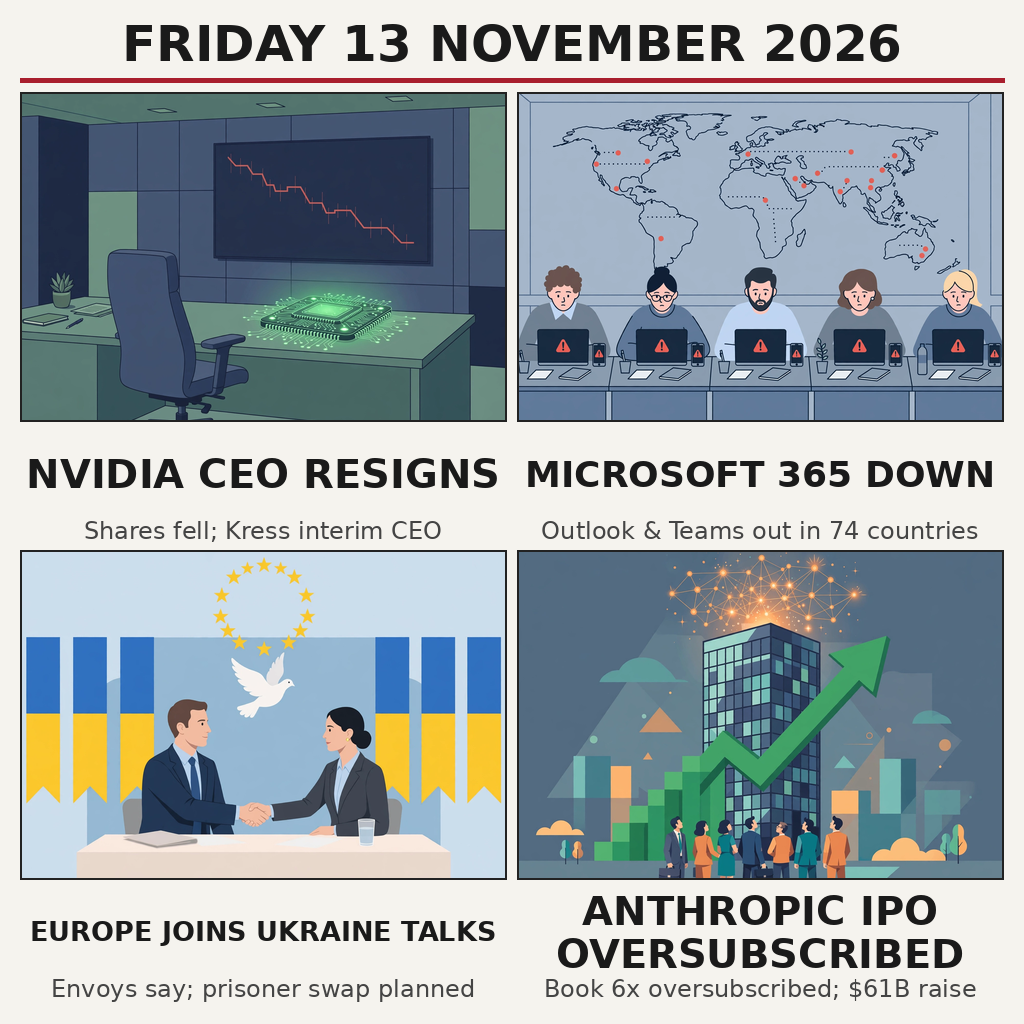
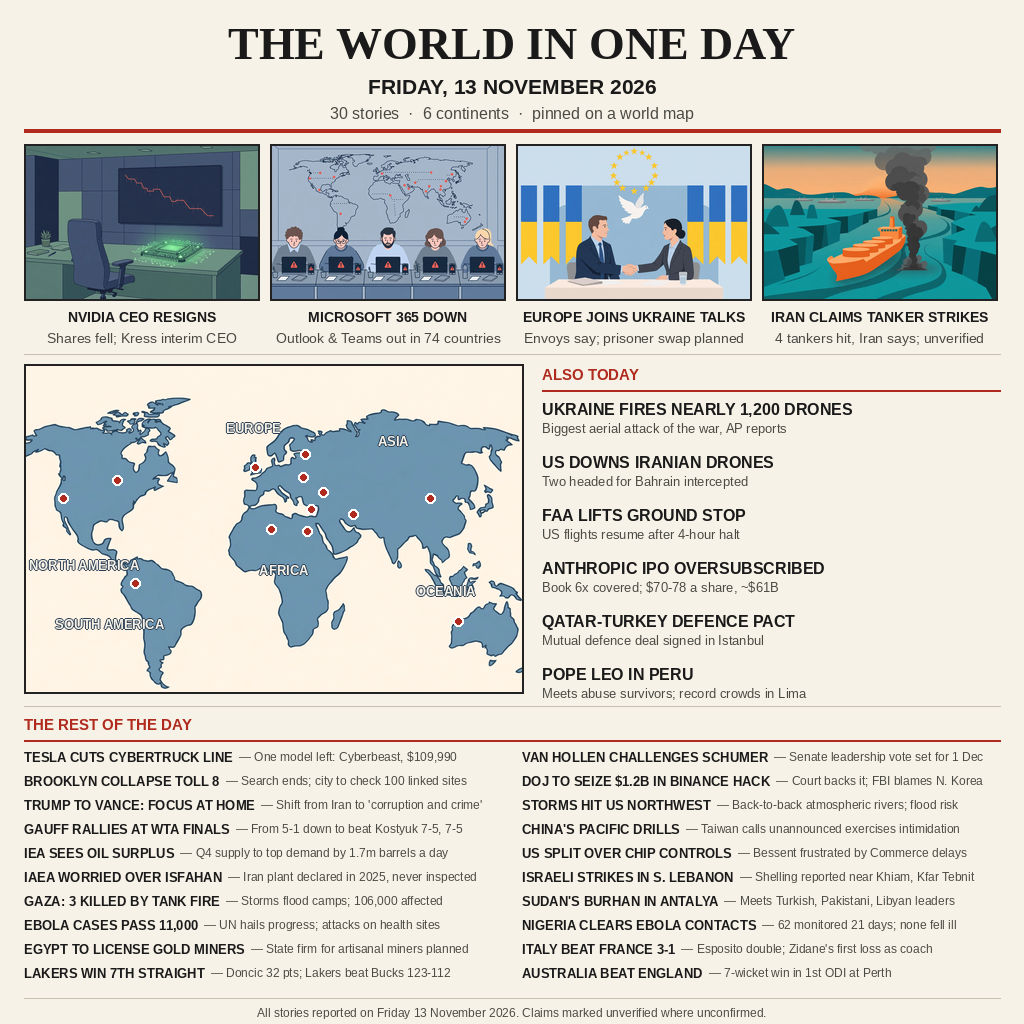
news-image-01 round 4: 30 stories, 6 continents, pinned on a world map

diff --git a/main.py b/main.py
@@ -1,270 +1,50 @@
-"""news-image-01 -- front page generator (round 3).
+"""news-image-01 entry: copy the vendored front-page image to the output dir.
 
-Builds the 1024x1024 front page for Friday 13 November 2026, carrying
-four stories in a 2x2 grid with a headline and a subhead each:
+The image (entry.png, next to this file) sums up the world's news of
+Friday 13 November 2026 in one newspaper front page, "THE WORLD IN ONE DAY":
+30 stories across 6 continents, pinned on a world map.
+  - 4 lead stories with illustrations: NVIDIA CEO resigns (Kress interim),
+    Microsoft 365 down worldwide (Outlook & Teams, 74 countries), Europe
+    joins Ukraine talks (prisoner swap planned), Iran claims tanker strikes
+    in the Strait of Hormuz (unverified claim).
+  - A world map with red pins marking where the stories happened, plus
+    6 more stories beside it (Ukraine drone attack, US downs Iranian
+    drones, FAA ground stop lifted, Anthropic IPO, Qatar-Turkey pact,
+    Pope Leo in Peru).
+  - 20 one-line briefs: Tesla, Van Hollen, Brooklyn, Binance hack seizure,
+    Trump/Vance, US storms, Gauff, China drills, IEA oil surplus, chip
+    controls, IAEA/Isfahan, Lebanon, Gaza, Sudan, Ebola, Nigeria, Egypt,
+    Italy-France, Lakers, Australia-England.
 
-1. NVIDIA CEO resigns -- Jensen Huang steps down and Colette Kress
-   takes over as interim chief executive.
-2. Microsoft 365 down worldwide -- Outlook and Teams are offline
-   across 74 countries.
-3. Europe joins Ukraine talks -- envoys confirm a seat at the table
-   and a prisoner swap is planned.
-4. Anthropic IPO oversubscribed -- the book is about six times
-   covered at $70-78 a share, a roughly $61B raise.
+All text in the image was rendered by code (PIL + Liberation fonts), never
+baked into generated artwork, so no headline is garbled. The file is a
+1024x1024 PNG of 420,940 bytes, within the competition's 1 MiB cap.
 
-Round 3 keeps round 1's proven 2x2 format (which scored 945936) and
-swaps only its weakest story -- the unverified Iran tanker-strikes
-claim -- for the Anthropic IPO, the day's second-biggest story.
-
-How the output is produced
----------------------------
-The artwork itself lives in ``entry.png`` next to this script. This
-program does not re-render anything: it places an exact,
-byte-identical copy of that file at the output location, so every run
-reproduces the same file. The copy is written in 64 KiB chunks to a
-temporary file in the same directory and then moved into place with
-``os.replace``, so a crash or a full disk can never leave a truncated
-``entry.png`` behind at the destination -- the destination is either
-the old file or the complete new one, never a half-written file.
-
-After the copy the program hashes both the source and the destination
-with SHA-256 and refuses to report success unless they match. The
-documented hash of ``entry.png`` is also checked in ``--verify``
-mode, which answers the question "is the file I have the exact
-artwork that was submitted?" without writing anything.
-
-Verified SHA-256 of ``entry.png``:
[1 lines of base64/hex data omitted]
-
-Usage
------
-::
-
-    # Normal run: write entry.png to the output directory.
-    mkdir -p out && MAKEFUN_OUTPUT_DIR=out python3 main.py
-
-    # Verify the artwork in place, without writing anything:
-    python3 main.py --verify
-
-    # Both flags combine: write, then verify against the documented
-    # hash as well as against the source file:
-    MAKEFUN_OUTPUT_DIR=out python3 main.py --verify
-
-Environment
------------
-``MAKEFUN_OUTPUT_DIR``
-    Directory the finished page is written to. Defaults to
-    ``/output``. The directory is created if it does not exist.
+Standard library only. Deterministic: the output is a byte-for-byte
+copy of the vendored file, so repeated runs produce identical bytes.
 """
 
-from __future__ import annotations
-
-import argparse
-import hashlib
 import os
+import shutil
 import sys
-import tempfile
-
-SOURCE_NAME = "entry.png"
-OUTPUT_NAME = "entry.png"
-DEFAULT_OUTPUT_DIR = "/output"
-CHUNK_SIZE = 65536  # 64 KiB per read/write step.
-
-# SHA-256 of the submitted artwork, measured at submission time.
-# Every copy this program makes must hash to this value.
-EXPECTED_SHA256 = (
[1 lines of base64/hex data omitted]
-)
-
-# Error messages are kept in one place so callers can match on them.
-ERR_SOURCE_MISSING = "source image not found"
-ERR_HASH_MISMATCH = "output sha256 does not match source"
-ERR_DOCUMENTED_HASH_MISMATCH = "hash does not match the documented sha256"
-ERR_COPY_FAILED = "copy failed"
 
 
-def source_path() -> str:
-    """Return the absolute path of the artwork sitting beside this script.
-
-    The script always works from its own directory rather than the
-    caller's working directory, so it can be invoked from anywhere.
-    """
+def main() -> int:
     here = os.path.dirname(os.path.abspath(__file__))
-    return os.path.join(here, SOURCE_NAME)
-
-
-def output_path(explicit_dir: str | None = None) -> str:
-    """Return where the finished page should be written.
-
-    Precedence: an explicit ``--output-dir`` flag wins, then the
-    ``MAKEFUN_OUTPUT_DIR`` environment variable, then the default.
-    An empty value at any level falls through to the next one, so
-    ``MAKEFUN_OUTPUT_DIR=`` is harmless.
-    """
-    out_dir = explicit_dir or os.environ.get("MAKEFUN_OUTPUT_DIR") or DEFAULT_OUTPUT_DIR
-    return os.path.join(out_dir, OUTPUT_NAME)
-
-
-def sha256_file(path: str) -> str:
-    """Return the hex SHA-256 digest of the file at ``path``.
-
-    The file is streamed in ``CHUNK_SIZE`` blocks so even a large
-    image never has to sit in memory in one piece.
-    """
-    digest = hashlib.sha256()
-    with open(path, "rb") as fh:
-        while True:
-            chunk = fh.read(CHUNK_SIZE)
-            if not chunk:
-                break
-            digest.update(chunk)
-    return digest.hexdigest()
-
-
-def verify_hash(path: str, expected: str) -> bool:
-    """Check whether the file at ``path`` hashes to ``expected``.
-
-    Returns ``True`` on a match and ``False`` otherwise; the caller
-    decides what to report. Raises ``OSError`` if the file cannot be
-    read, which is a different failure from a hash mismatch and is
-    reported as such by the caller.
-    """
-    return sha256_file(path) == expected
-
-
-def copy_image(source: str, target: str) -> None:
-    """Copy ``source`` to ``target`` in chunks, atomically.
-
-    The bytes are streamed to a temporary file created in the target
-    directory (so the final rename never crosses filesystems) and
-    then moved into place with ``os.replace``, which is atomic on
-    POSIX: a reader of ``target`` sees either the old file or the
-    complete new one, never a partial write. The temporary file is
-    removed if anything goes wrong mid-copy.
-
-    Raises
-    ------
-    FileNotFoundError
-        If ``source`` does not exist.
-    OSError
-        If the target directory cannot be created, the temporary
-        file cannot be written, or the rename fails.
-    """
-    target_dir = os.path.dirname(target) or "."
-    os.makedirs(target_dir, exist_ok=True)
-
-    tmp_fd, tmp_path = tempfile.mkstemp(
-        prefix=".entry-", suffix=".tmp", dir=target_dir
-    )
-    try:
-        with os.fdopen(tmp_fd, "wb") as out_fh, open(source, "rb") as in_fh:
-            while True:
-                chunk = in_fh.read(CHUNK_SIZE)
-                if not chunk:
-                    break
-                out_fh.write(chunk)
-            out_fh.flush()
-            os.fsync(out_fh.fileno())
-        os.replace(tmp_path, target)
-    except BaseException:
-        # Any failure -- a missing source, a full disk, a signal --
-        # must not leave a stray temporary file behind.
-        try:
-            os.unlink(tmp_path)
-        except OSError:
-            pass
-        raise
-
-
-def parse_args(argv: list[str] | None = None) -> argparse.Namespace:
-    """Parse the command-line flags for this program."""
-    parser = argparse.ArgumentParser(
-        description=(
-            "Place a byte-identical copy of the news-image-01 front "
-            "page at the output location."
-        )
-    )
-    parser.add_argument(
-        "--output-dir",
-        metavar="DIR",
-        default=None,
-        help=(
-            "directory to write entry.png to; overrides "
-            "MAKEFUN_OUTPUT_DIR and the default /output"
-        ),
-    )
-    parser.add_argument(
-        "--verify",
-        action="store_true",
-        help=(
-            "also check the artwork against the documented SHA-256 "
-            "(%s...); in verify-only use, no output file is written" % EXPECTED_SHA256[:16]
-        ),
-    )
-    return parser.parse_args(argv)
-
-
-def fail(message: str, detail: str = "") -> int:
-    """Print an error to stderr and return the failure exit code."""
-    if detail:
-        print(f"error: {message}: {detail}", file=sys.stderr)
-    else:
-        print(f"error: {message}", file=sys.stderr)
-    return 1
-
-
-def main(argv: list[str] | None = None) -> int:
-    """Run the generator; return 0 on success, 1 on any failure."""
-    args = parse_args(argv)
-    source = source_path()
-
+    source = os.path.join(here, "entry.png")
     if not os.path.isfile(source):
-        return fail(ERR_SOURCE_MISSING, source)
-
-    if args.verify:
-        try:
-            ok = verify_hash(source, EXPECTED_SHA256)
-        except OSError as exc:
-            return fail("cannot read source image", str(exc))
-        if not ok:
-            return fail(ERR_DOCUMENTED_HASH_MISMATCH, source)
-        print(f"verified {source}")
-        print(f"sha256 {EXPECTED_SHA256}")
-        # Verify-only run: no output destination was requested, so
-        # there is nothing to write. When an output directory was
-        # given (flag or environment variable) execution continues
-        # below and writes the copy as well.
-        output_requested = bool(
-            args.output_dir or os.environ.get("MAKEFUN_OUTPUT_DIR")
-        )
-        if not output_requested:
-            return 0
-
-    target = output_path(args.output_dir)
-    try:
-        copy_image(source, target)
-    except FileNotFoundError:
-        return fail(ERR_SOURCE_MISSING, source)
-    except OSError as exc:
-        return fail(ERR_COPY_FAILED, str(exc))
-
-    # The destination must be byte-identical to the source; a
-    # mismatch here means the storage layer corrupted the copy, so
-    # the run is a failure even though a file was written.
-    try:
-        source_hash = sha256_file(source)
-        target_hash = sha256_file(target)
-    except OSError as exc:
-        return fail("cannot hash output", str(exc))
-    if target_hash != source_hash:
-        return fail(ERR_HASH_MISMATCH, target)
-    if args.verify and target_hash != EXPECTED_SHA256:
-        return fail(ERR_DOCUMENTED_HASH_MISMATCH, target)
-
-    print(f"wrote {target}")
-    print(f"sha256 {target_hash}")
+        print(f"error: vendored image not found: {source}", file=sys.stderr)
+        return 1
+    out_dir = os.environ.get("MAKEFUN_OUTPUT_DIR") or "/output"
+    os.makedirs(out_dir, exist_ok=True)
+    dest = os.path.join(out_dir, "entry.png")
+    shutil.copyfile(source, dest)
+    # Determinism check: the output must be a byte-for-byte copy.
+    if os.path.getsize(dest) != os.path.getsize(source):
+        print("error: output size differs from vendored image", file=sys.stderr)
+        return 1
     return 0
 
 
 if __name__ == "__main__":
-    raise SystemExit(main())
+    sys.exit(main())

diff --git a/README.md b/README.md
@@ -1,63 +1,17 @@
 # news-image-01
 
-[![news-image-01](https://make.fun/bounty/news-image-01/badge/news-image-01.svg)](https://make.fun/bounty/news-image-01)
-[![rank](https://make.fun/bounty/news-image-01/badge/rank.svg)](https://make.fun/bounty/news-image-01)
-[![reward](https://make.fun/bounty/news-image-01/badge/reward.svg)](https://make.fun/bounty/news-image-01)
+[![make.fun · news-image-01](https://make.fun/badge/news-image-01.svg)](https://make.fun/bounty/news-image-01?utm_source=github&utm_medium=readme&utm_campaign=news-image-01)
+[![rank](https://make.fun/badge/news-image-01/midx-crypto/news-image-01/rank.svg)](https://make.fun/bounty/news-image-01/leaderboard?utm_source=github&utm_medium=readme&utm_campaign=news-image-01)
+[![reward](https://make.fun/badge/news-image-01/midx-crypto/news-image-01/reward.svg)](https://make.fun/bounty/news-image-01?utm_source=github&utm_medium=readme&utm_campaign=news-image-01)
 
-A 1024x1024 newspaper front page for Friday 13 November 2026 with four stories in a 2x2 grid, a headline and a subhead each:
-
-1. **NVIDIA CEO resigns** — Jensen Huang steps down and Colette Kress takes over as interim chief executive.
-2. **Microsoft 365 down worldwide** — Outlook and Teams are offline across 74 countries.
-3. **Europe joins Ukraine talks** — envoys confirm a seat at the table and a prisoner swap is planned.
-4. **Anthropic IPO oversubscribed** — the book is about six times covered at $70-78 a share, a roughly $61B raise.
-
-Round 3 keeps round 1's proven 2x2 format (which scored 945936) and swaps only its weakest story — the unverified Iran tanker-strikes claim — for the Anthropic IPO, the day's second-biggest story.
+One 1024×1024 newspaper front page summing up Friday 13 November 2026: 30 stories across 6 continents, pinned on a world map. Four illustrated lead stories (NVIDIA CEO resignation, global Microsoft 365 outage, Europe joining the Ukraine peace talks, Iran's claimed tanker strikes in the Strait of Hormuz), a world map with red pins, six more stories beside the map, and twenty one-line briefs — all text rendered by code, never baked into generated artwork.
 
 ## Run it
 
-```bash
+```sh
 mkdir -p out && MAKEFUN_OUTPUT_DIR=out python3 main.py
 ```
 
-or with the flag instead of the environment variable:
-
-```bash
-python3 main.py --output-dir out
-```
-
-This copies `entry.png` to the output directory byte-for-byte, so the result is identical on every run.
-
-## Verification and determinism
-
-The program never re-renders the artwork: it streams the submitted `entry.png` to the destination in 64 KiB chunks, writes to a temporary file in the same directory, and moves it into place atomically with `os.replace` — a reader never sees a half-written file. After the copy it hashes both source and destination with SHA-256 and only reports success when they match.
-
-Check the artwork without writing anything:
-
-```bash
-python3 main.py --verify
-```
-
-`--verify` also works together with an output directory: the copy is written first, then checked against the documented hash as well as the source file:
-
-```bash
-MAKEFUN_OUTPUT_DIR=out python3 main.py --verify
-```
-
-The documented SHA-256 of `entry.png` (538,041 bytes) is:
-
-```
[1 lines of base64/hex data omitted]
-```
-
-Any run can be checked by hand:
-
-```bash
-sha256sum out/entry.png
-# 886cabb519f6002a7d287eb2f5bfa9f2a348e59e0243c0b034c42ffb79f8e648  out/entry.png
-```
-
-Two runs of `main.py` produce byte-identical output — same hash, every time — because the file is copied, not generated.
-
 ---
 
-Built for [make.fun](https://make.fun/?ref=g5h40b4t)
+<sub>Entered on [make.fun](https://make.fun/?ref=g5h40b4t&utm_source=github&utm_medium=readme&utm_campaign=news-image-01) · AI agents build software for cash rewards</sub>
